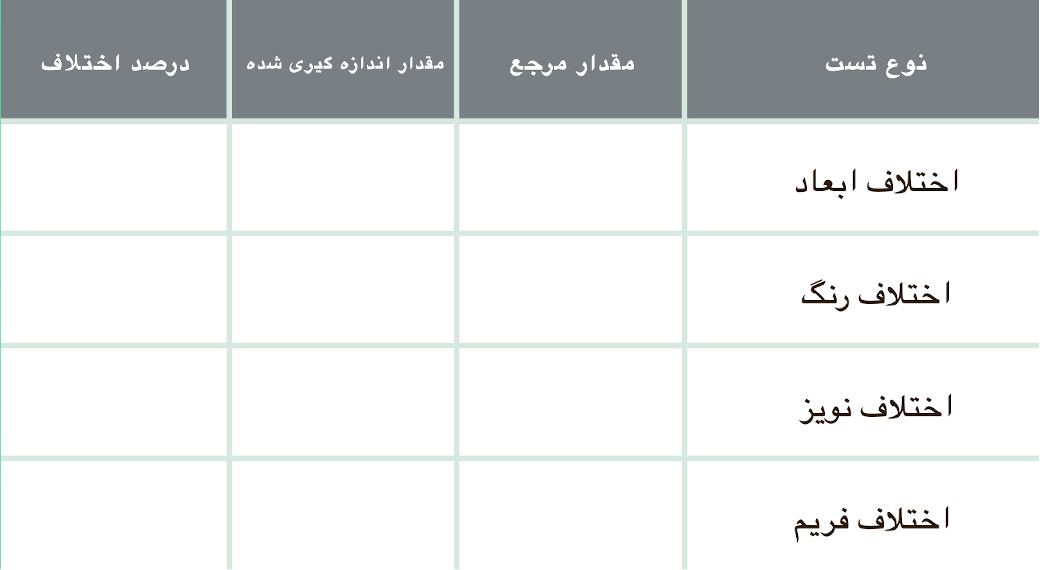
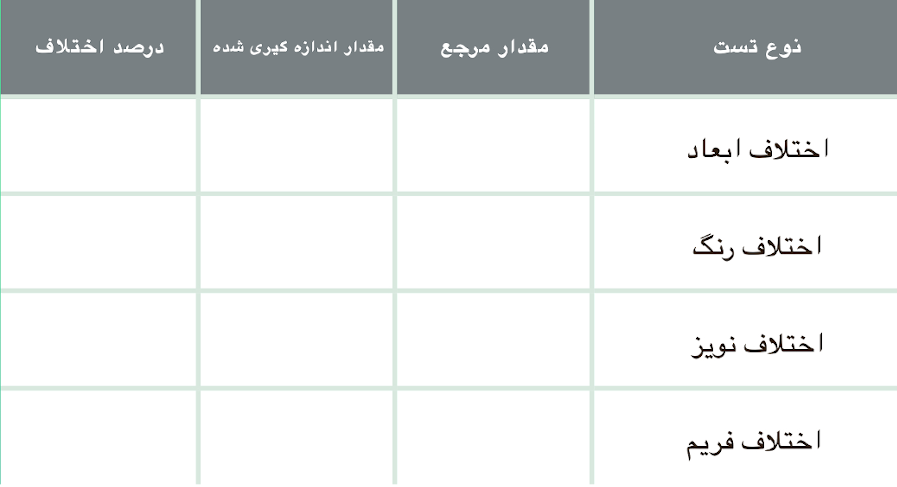
e

diff --git a/VideoWidget.cpp b/VideoWidget.cpp
@@ -56,7 +56,7 @@ void TVideoWidget::paintEvent(QPaintEvent *)
     p.setPen(Qt::black);
     p.setFont(QFont("Arial", 28));
 
-    p.drawPixmap( width()/8 , height()/6 , tableImg);
+    p.drawPixmap( width()/10 , height()/10 , tableImg);
 
     p.drawText( width()/3 , height()/4 ,     QString(" تست درصد اختلاف ابعاد : %1  ").arg(singleMeasured[0]));
     p.drawPixmap( width()/3-50 , height()/4-35 , tickImg);
